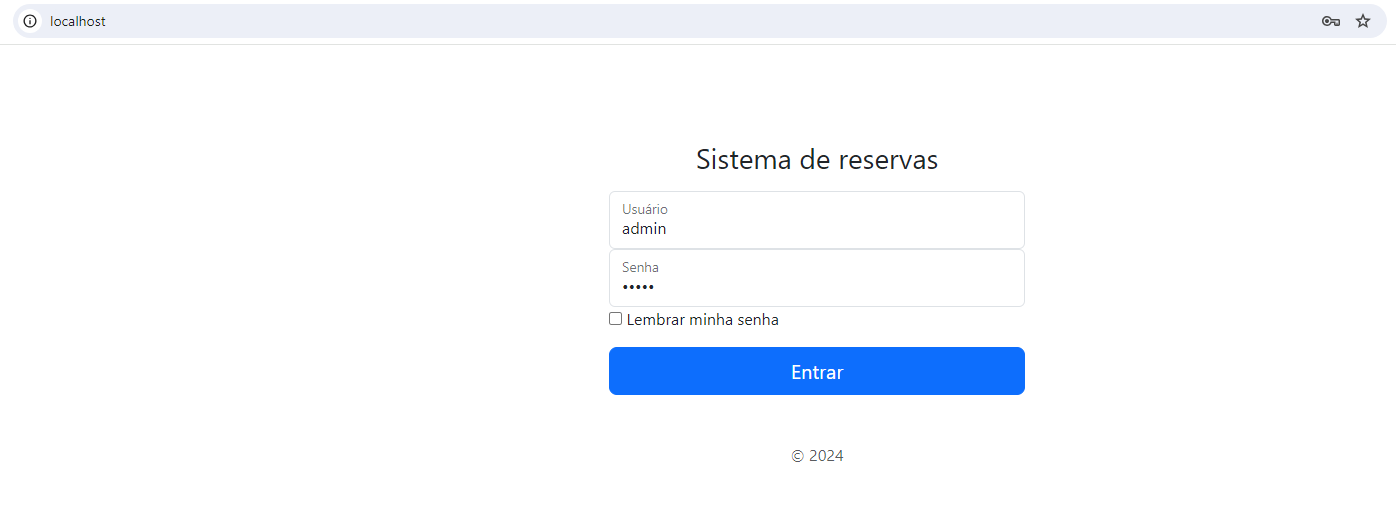
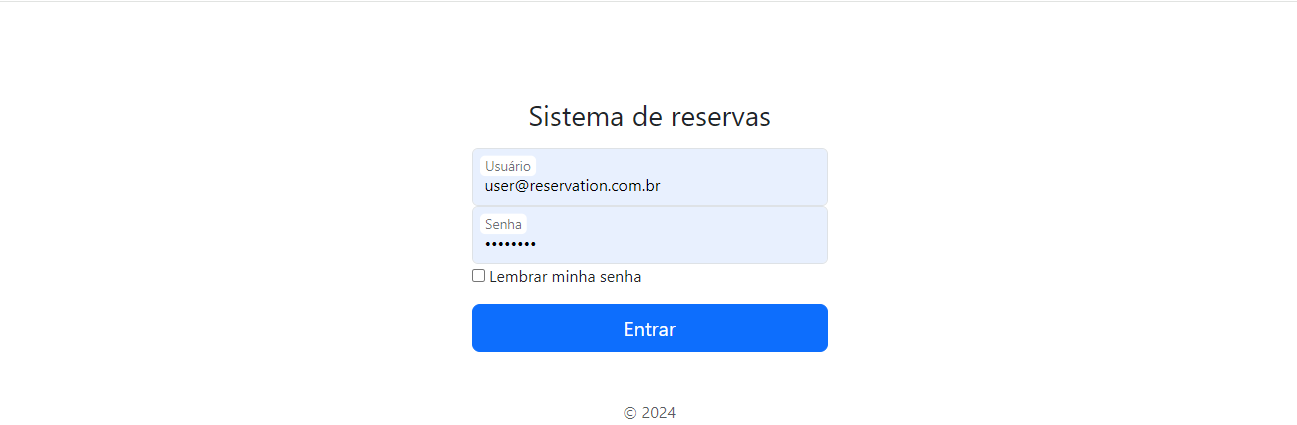
docs(reservas): Reservas
documentação

diff --git a/README.md b/README.md
@@ -6,10 +6,9 @@
 ---
 
 - Cadastro de usuários
-  - [X] Usuários
-  - [X] Permissões
   - [X] Equipamentos 
-  - [X] Equipamentos 
+  - [X] Salas 
+  - [X] Usuários 
   - [X] Veículos
 
 
@@ -33,6 +32,10 @@
 ---
 
 ### Instalação
+
+---
+
+Entendendo que foi instalado o php e o composer no seu ambiente de produção.
 
 --- 
 
@@ -70,6 +73,15 @@ server {
 }
 
 ```
+---
+
+Após realizar a instalação acesse a pagina https://localhost
+
+Caso você tenha configurado o nginx com algum host acesse a url com o nome do teu host ou IP.
+
+Devera ser viusalizado a páginade login do sistema:
+
+![index_image](./public/assets/images/index.png)
 
 ---
 
@@ -114,3 +126,7 @@ Após fazer login será direcionado para pagina home do projeto:
 
 ---
 
+
+### Para obter a versão 2.0 ou solicitar algum serviço:
+
+<p style="text-align: center">Acesse a pagina https://wbsartori.com.br</p>
